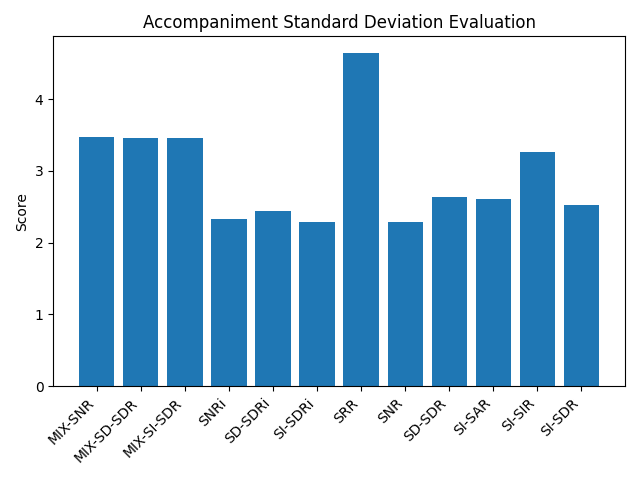
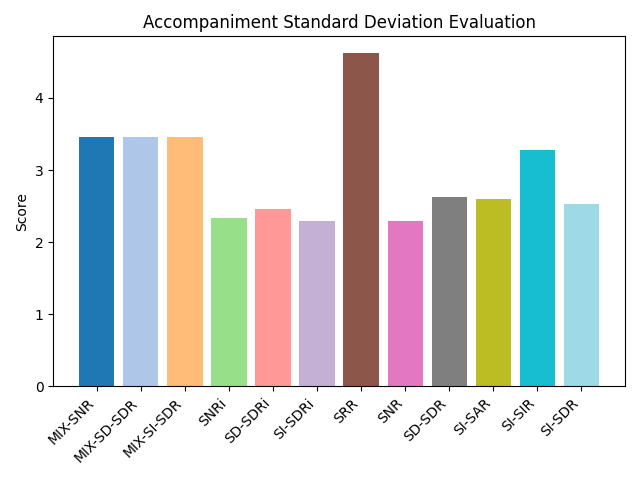
Update metric graph colors

Changed region(s): [[0.1875, 0.0938, 0.9375, 0.8125], [0.0312, 0.1875, 0.0625, 0.2188]]

diff --git a/stem-separation/StemSeparationEvaluation.py b/stem-separation/StemSeparationEvaluation.py
@@ -89,15 +89,17 @@ def evaluateModel(model, data, num_items, eval_path):
             "Vocals Mean", "Vocals Standard Deviation",
             "Accompaniment Mean", "Accompaniment Standard Deviation"]
 
+    colors = plt.cm.get_cmap('tab20', len(df["Metric"]))
+
     for i, metric in enumerate(metrics_groups):
-        axes[i].bar(df["Metric"], df[metric])
+        axes[i].bar(df["Metric"], df[metric], color=colors(range(len(df["Metric"]))))
         axes[i].set_title(f"{metric} Evaluation")
         axes[i].set_ylabel("Score")
         axes[i].set_xticklabels(df["Metric"], rotation=45, ha="right")
 
         # Save individual plots
         plt.figure()
-        plt.bar(df["Metric"], df[metric])
+        plt.bar(df["Metric"], df[metric], color=colors(range(len(df["Metric"]))))
         plt.title(f"{metric} Evaluation")
         plt.ylabel("Score")
         plt.xticks(rotation=45, ha="right")
